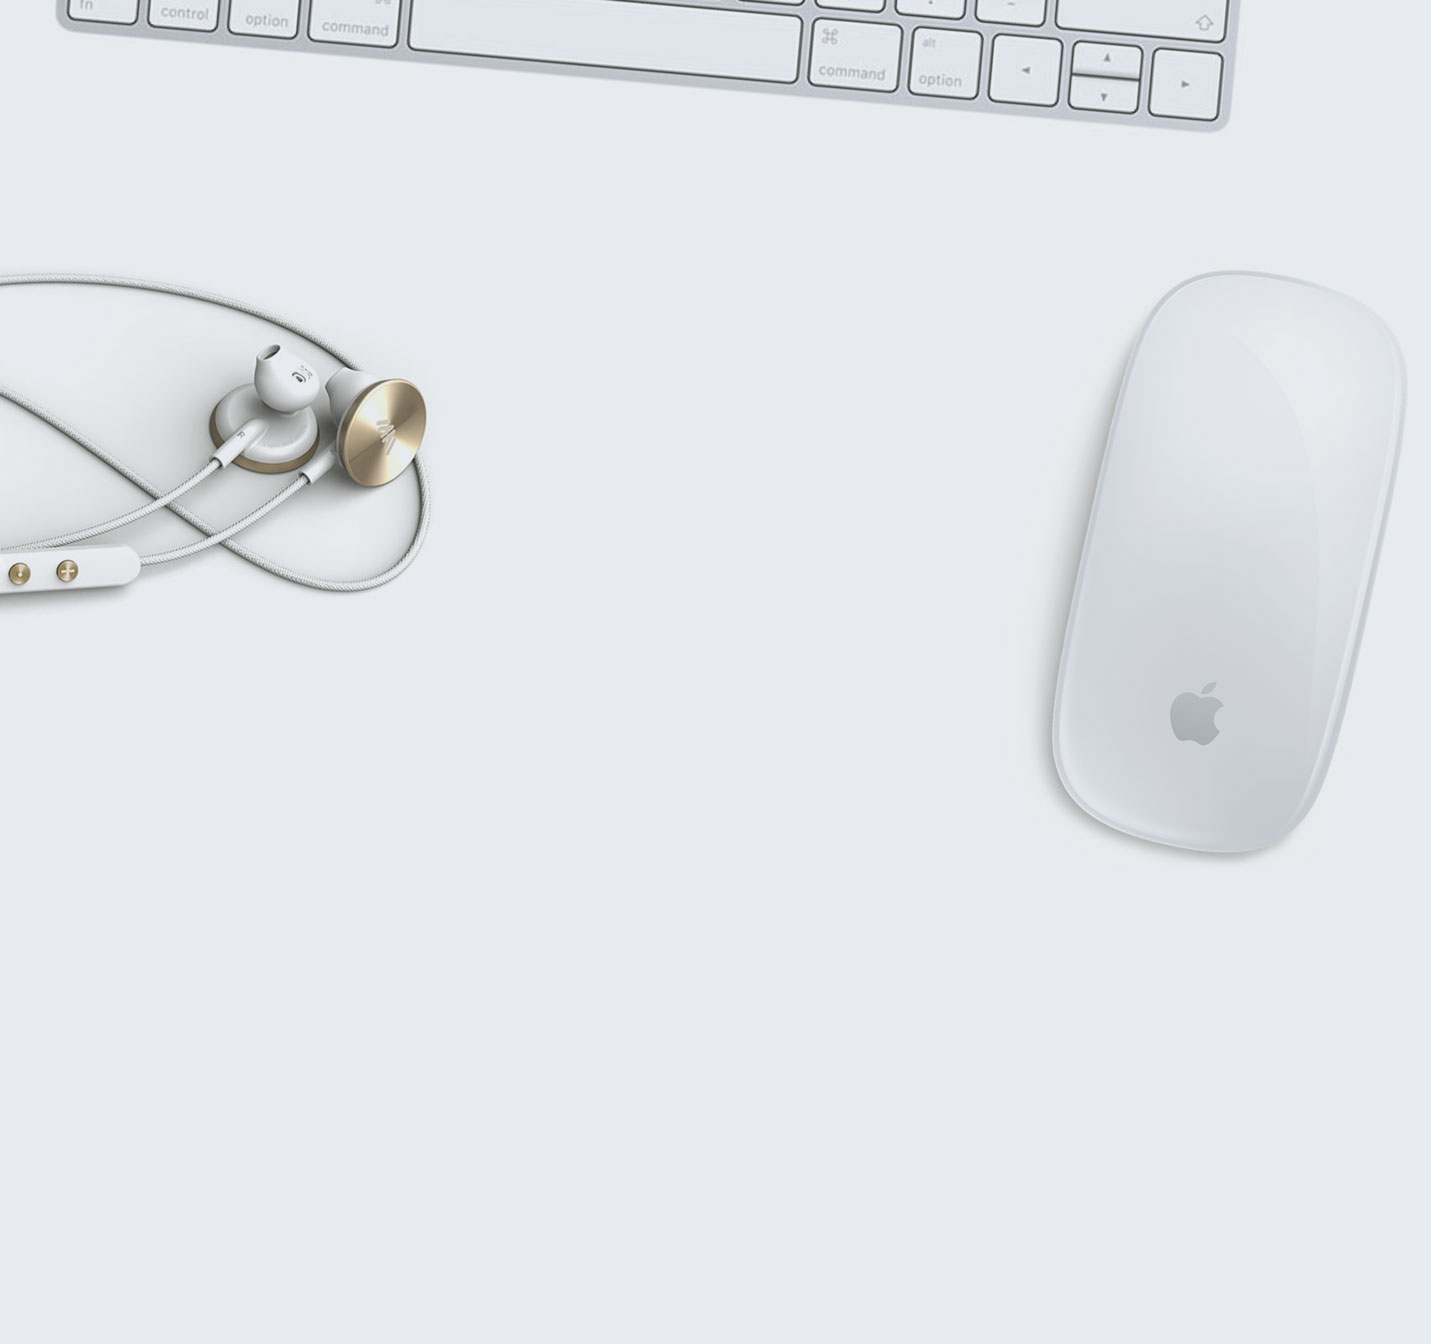
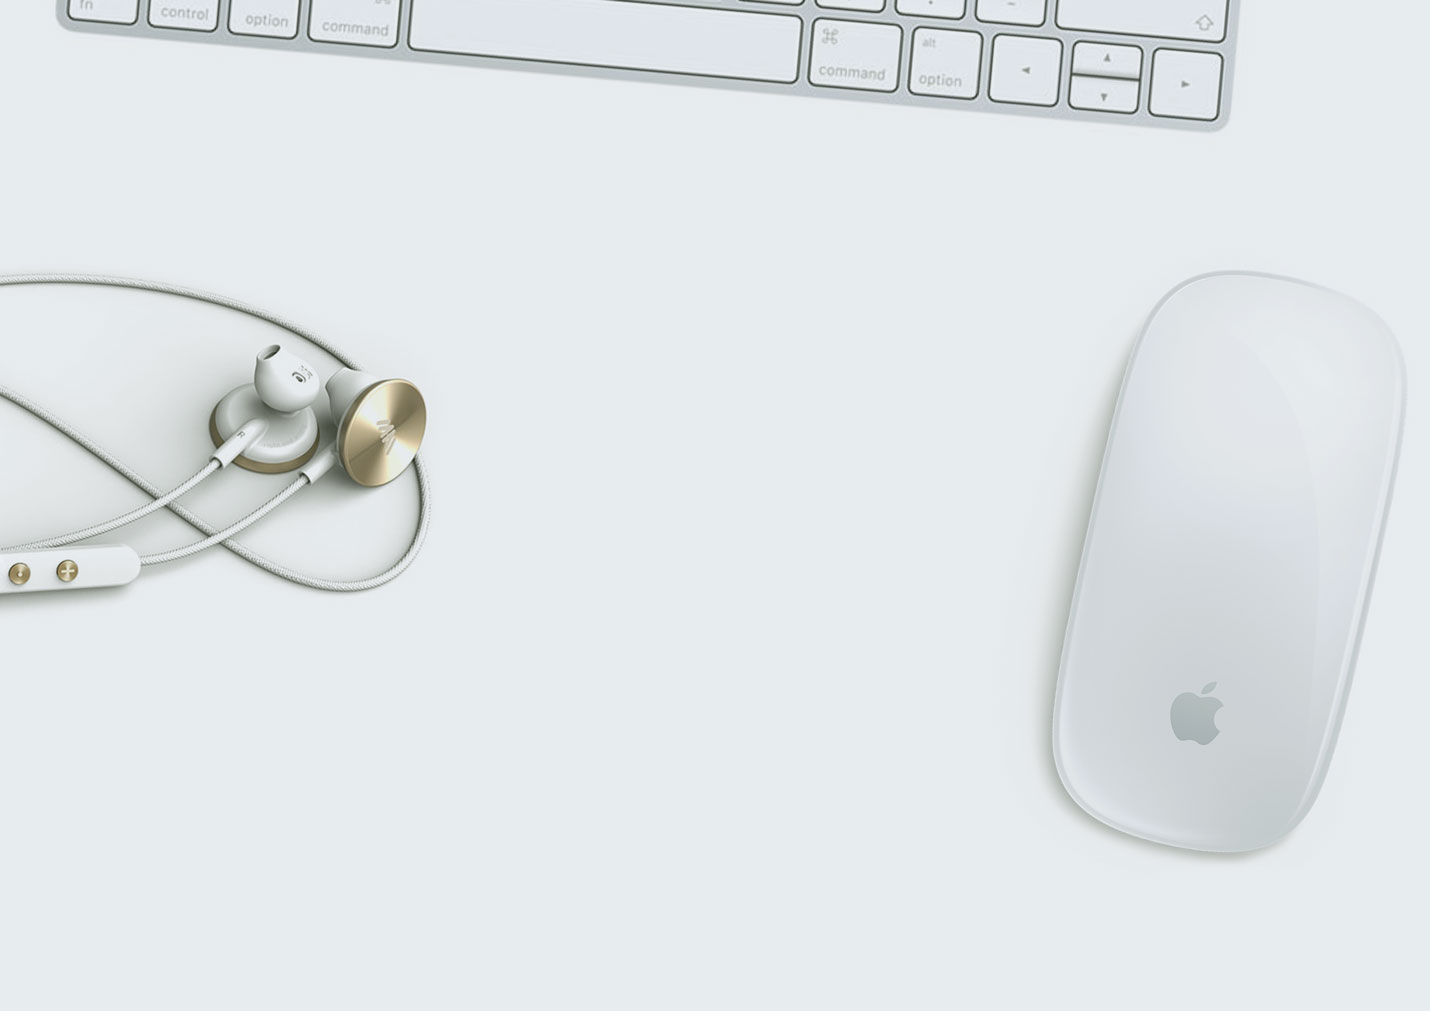
update bg imgs

diff --git a/src/index.css b/src/index.css
@@ -24,7 +24,7 @@ p {
       background-image: url("./images/bg-4-md.jpg");
       padding-top: 154px;
       width: 1454px;
-      height: 1315px; } }
+      height: 730px; } }
   @media only screen and (max-width: 500px) {
     .essential-bg {
       background: none;

diff --git a/src/index.scss b/src/index.scss
@@ -27,7 +27,7 @@ p {
    background-image: url("./images/bg-4-md.jpg");
    padding-top: 154px;
    width: 1454px;
-   height: 1315px;
+   height: 730px;
   }
 
   @media only screen and (max-width: 500px) {
